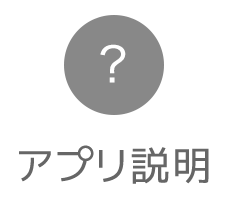
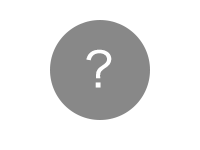
submenuの表示を変更

Changed region(s): [[0.06, 0.0533, 0.93, 0.9333]]

diff --git a/www/mypage.html b/www/mypage.html
@@ -49,13 +49,20 @@ $(function() {
 
 <article>
     <div><img></div>
+ああああ
 </article>
+
 <div class="hide-submenu">
   <div class="submenu">メニュー</div>
   <figure class="close_submenu_btn"><img src="img/common-icon/btn_close_b.png" width="35%"></figure>
   <figure class="submenu_btn">
-    <img src="img/navi/after/menu01.png"><img src="img/navi/after/menu02.png"><img src="img/navi/after/menu03.png"><img src="img/navi/after/menu04.png"</figure>
+    <div><img src="img/navi/after/menu01.png" style="width:85%;"><br>投稿一覧</div>
+		<div><img src="img/navi/after/menu02.png" style="width:85%;"><br>過去のテーマ</div>
+		<div><img src="img/navi/after/menu03.png" style="width:85%;"><br>マイページ</div>
+		<div><img src="img/navi/after/menu04.png" style="width:85%;"><br>アプリ説明</div>
+	</figure>
 </div>
+
 <footer class="gbnav">
   <figure class="home_btn"><img src="img/navi/nav_btn_home.png" width="35%"></figure>
   <figure class="post_btn"><img src="img/navi/nav_btn_post.png" width="50%" class="post_img"></figure>

diff --git a/www/css/common.css b/www/css/common.css
@@ -432,11 +432,13 @@ figure.submenu_btn{
 	border-top: 1px solid #999;
 }
 
-.submenu_btn img{
-	width: 20%;
-	height: auto;
-	padding: 5px;
+figure.submenu_btn div{
+	width: 25%;
+	float: left;
+	margin-bottom: 10px;
+	font-size: 0.8rem;
 }
+
 
 input.submit{
 	background: #0f9;
